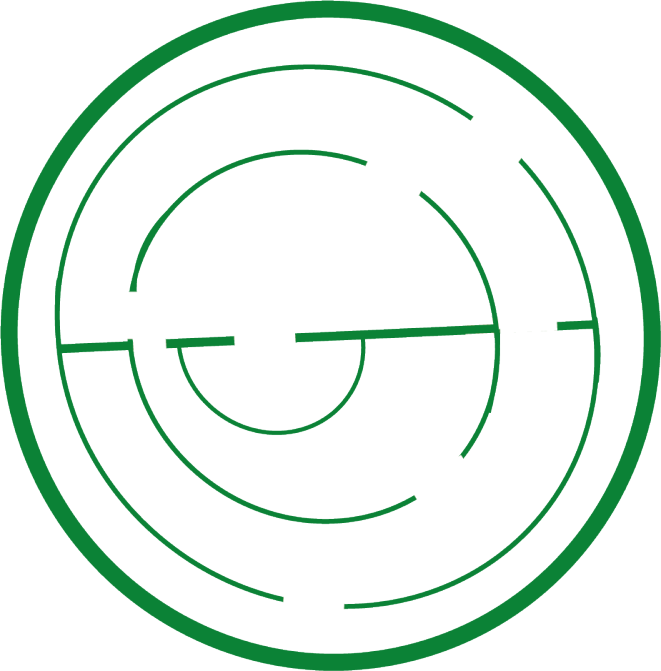
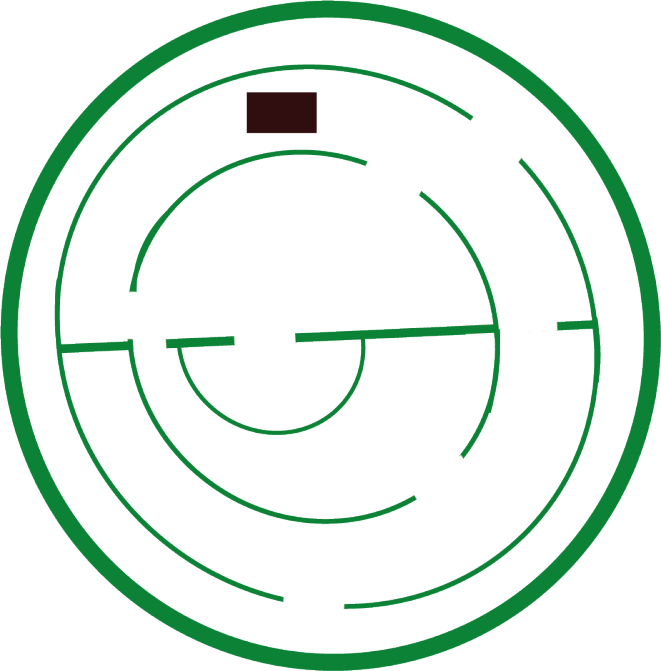
[ADD] the win condition and upgraded the colisions

Changed region(s): [[0.3631, 0.1192, 0.4841, 0.2086]]

diff --git a/src_game_map/split_while_poll_event.c b/src_game_map/split_while_poll_event.c
@@ -10,20 +10,29 @@ void cond_key_l_r(sfEvent event, sfView *view, anime_t *anim)
 {
     sfVector2f move_r = {3, 0};
     sfVector2f move_l = {-3, 0};
+    sfVector2f cat = sfSprite_getPosition(anim->sprite_sans);
 
     if (event.key.code == sfKeyRight) {
-        if (handle_collision(anim->pos.x + 7, anim->pos.y + 2) == 0)
+        if (handle_collision(cat.x + 7, cat.y + 2) == 0)
             return;
-        if (handle_collision(anim->pos.x + 7, anim->pos.y + - 2) == 0)
-        return;
+        if (handle_collision(cat.x + 7, cat.y + - 2) == 0)
+            return;
+        if (handle_collision(cat.x + 7, cat.y + 2) == 2)
+            exit(0);
+        if (handle_collision(cat.x + 7, cat.y + - 2) == 2)
+            exit(0);
         sfView_move(view, move_r);
         anim->pos.x += 3;
     }
     if (event.key.code == sfKeyLeft) {
-        if (handle_collision(anim->pos.x, anim->pos.y) == 0)
+        if (handle_collision(cat.x, cat.y) == 0)
             return;
-        if (handle_collision(anim->pos.x, anim->pos.y - 2) == 0)
-        return;
+        if (handle_collision(cat.x, cat.y - 2) == 0)
+            return;
+        if (handle_collision(cat.x, cat.y) == 2)
+            exit(0);
+        if (handle_collision(cat.x, cat.y - 2) == 2)
+            exit(0);
         sfView_move(view, move_l);
         anim->pos.x -= 3;
     }
@@ -33,20 +42,29 @@ void cond_key_u_d(sfEvent event, sfView *view, anime_t *anim)
 {
     sfVector2f move_u = {0, -3};
     sfVector2f move_d = {0, 3};
+    sfVector2f cat = sfSprite_getPosition(anim->sprite_sans);
 
     if (event.key.code == sfKeyUp) {
-        if (handle_collision(anim->pos.x + 2, anim->pos.y) == 0)
+        if (handle_collision(cat.x + 2, cat.y) == 0)
             return;
-        if (handle_collision(anim->pos.x, anim->pos.y) == 0)
-        return;
+        if (handle_collision(cat.x, cat.y) == 0)
+            return;
+        if (handle_collision(cat.x + 2, cat.y) == 2)
+            exit(0);
+        if (handle_collision(cat.x, cat.y) == 2)
+            exit(0);
         sfView_move(view, move_u);
         anim->pos.y -= 3;
     }
     if (event.key.code == sfKeyDown) {
-        if (handle_collision(anim->pos.x, anim->pos.y + 3) == 0)
+        if (handle_collision(cat.x, cat.y + 3) == 0)
             return;
-        if (handle_collision(anim->pos.x + 2, anim->pos.y + 3) == 0)
-        return;
+        if (handle_collision(cat.x + 2, cat.y + 3) == 0)
+            return;
+        if (handle_collision(cat.x, cat.y + 3) == 2)
+            exit(0);
+        if (handle_collision(cat.x + 2, cat.y + 3) == 2)
+            exit(0);
         sfView_move(view, move_d);
         anim->pos.y += 3;
     }

diff --git a/src_game_map/display_wind.c b/src_game_map/display_wind.c
@@ -25,6 +25,8 @@ int disp_split(sfRenderWindow *w, maps_t *map, anime_t *ani, sfView *view, int t
     sfRenderWindow_clear(w, sfWhite);
     sfRenderWindow_setView(w, view);
     sfRenderWindow_drawSprite(w, map->sprite_sous_map, NULL);
+    if (test == 2)
+        exit(0);
     if (test == 1) {
         sfSprite_setTextureRect(ani->sprite_sans, ani->rect);
         sfSprite_setPosition(ani->sprite_sans, ani->pos);
@@ -64,6 +66,9 @@ int display_window(sfEvent event)
     while (sfRenderWindow_isOpen(window)) {
         if (while_for_display(window, event, view, animation) == 1) {
             test = 1;
+        }
+        if (while_for_display(window, event, view, animation) == 2) {
+            test = 2;
         }
         disp_split(window, maps, animation, view, test);
     }

diff --git a/src_game_map/collision.c b/src_game_map/collision.c
@@ -10,12 +10,20 @@ int handle_collision(long unsigned int x, long unsigned int y)
 {
     sfEvent event;
     sfImage *image = sfImage_createFromFile("assets/sous_map.png");
+    sfVector2i mouse = sfMouse_getPosition(NULL);
     sfColor color = sfImage_getPixel(image, x, y);
 
-    if (color.r == 255 && color.b == 255 && color.g == 255) {
+    if (color.r >= 240 && color.b >= 240 && color.g >= 240) {
         return 1;
-    } else {
+    }
+    if (color.r <= 11 && color.g <= 130 && color.b <= 54 && color.g > 14 && color.b > 15) {
         return 0;
+    }
+    if (color.r == 48 && color.g == 14 && color.b == 15) {
+        return 2;
+    }
+    if (color.r == 86 && color.g == 58 && color.b == 59) {
+        return 2;
     }
     sfImage_destroy(image);
 }

diff --git a/src_game_map/main.c b/src_game_map/main.c
@@ -10,6 +10,7 @@
 int main(void)
 {
     sfEvent event;
+
     my_rpg *rpg = malloc (sizeof(my_rpg));
     menu(rpg);
     return 0;
